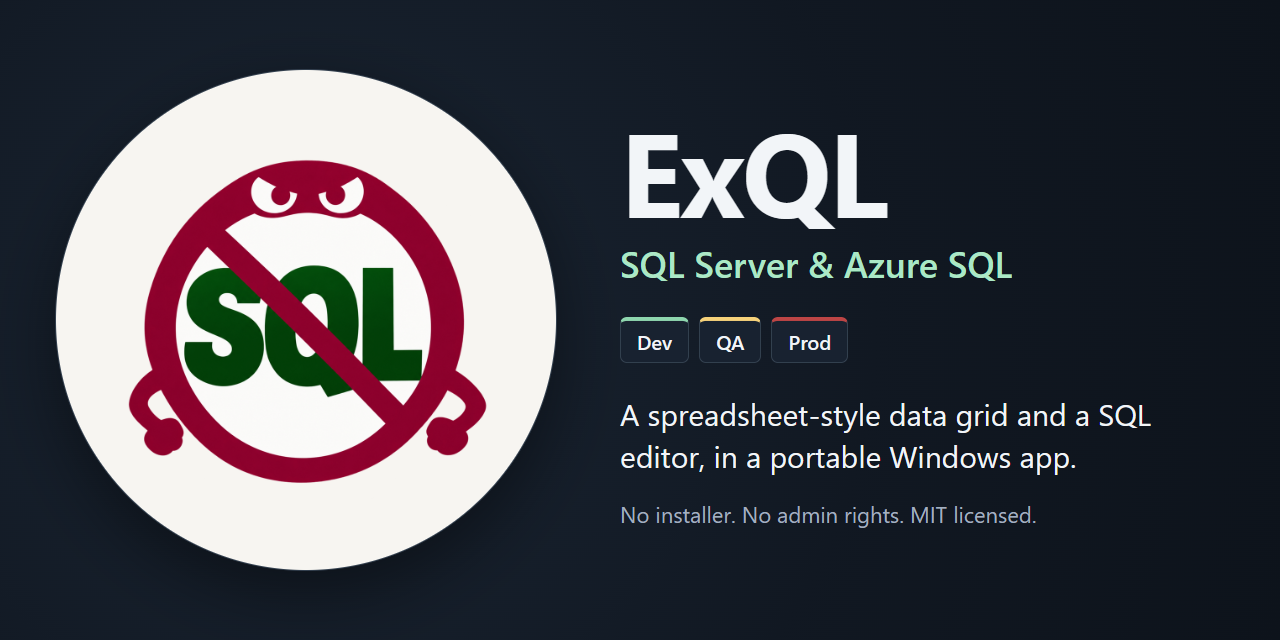
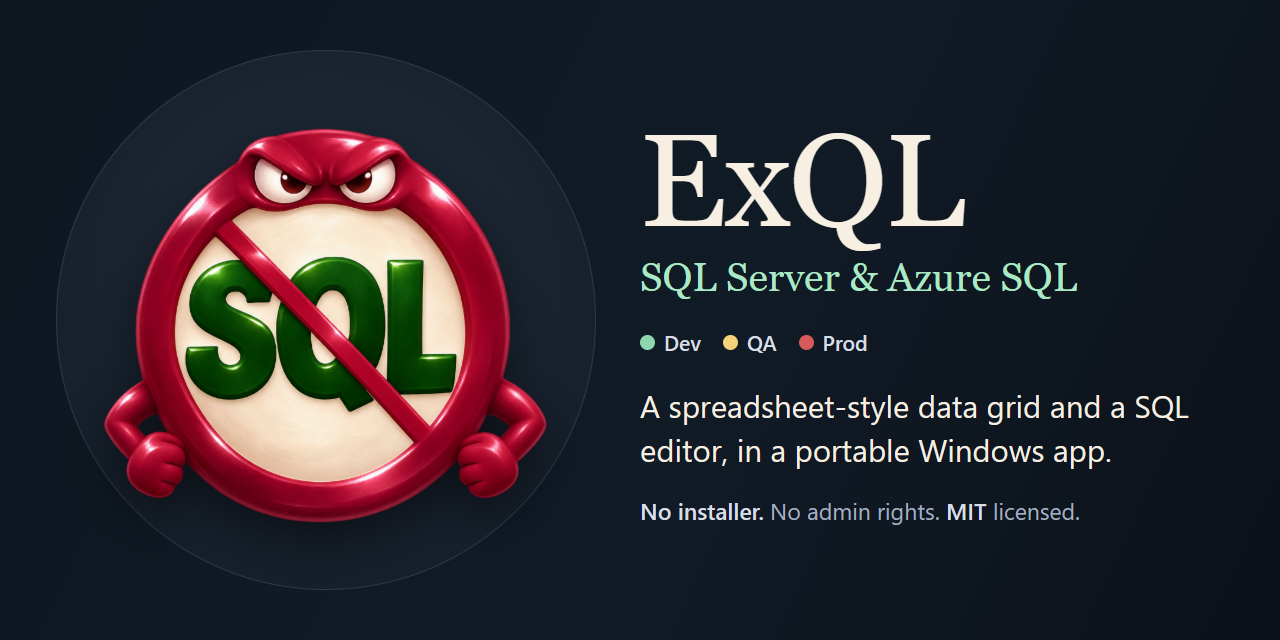
[Claude][Opus 5.5] Give the share card an illustrated mascot
The first card put the flat logo on a white disc. Use a painted version of the
mascot on a dark stage with a serif title, matching Ratatoskr's card.

diff --git a/tests/screenshots/social-card.html b/tests/screenshots/social-card.html
@@ -12,84 +12,94 @@
     overflow: hidden;
     display: flex;
     align-items: center;
-    gap: 64px;
-    padding: 0 72px 0 56px;
-    color: #f2f5f8;
+    gap: 44px;
+    padding: 0 64px 0 56px;
+    color: #f6efe2;
     font-family: Inter, "Segoe UI", sans-serif;
-    background: radial-gradient(
-      circle at 25% 50%,
-      #1a2533 0%,
-      #111822 55%,
-      #0d131b 100%
-    );
+    background: linear-gradient(115deg, #0e1620 0%, #111b26 55%, #0b1118 100%);
   }
-  .badge {
+  .stage {
     flex: none;
-    display: grid;
-    place-items: center;
-    width: 500px;
-    height: 500px;
+    position: relative;
+    width: 540px;
+    height: 540px;
     border-radius: 50%;
-    background: #f7f5f1;
-    box-shadow:
-      0 0 0 1px #33404f,
-      0 24px 70px rgb(0 0 0 / 45%);
+    background: radial-gradient(
+      circle at 50% 42%,
+      #24303f 0%,
+      #18222e 60%,
+      #131b25 100%
+    );
+    box-shadow: inset 0 0 0 1px #2c3947;
   }
-  .badge img {
-    width: 430px;
-    height: 430px;
+  .stage img {
+    position: absolute;
+    inset: 22px;
+    width: 496px;
+    height: 496px;
+    filter: drop-shadow(0 18px 26px rgb(0 0 0 / 55%));
   }
   h1 {
-    font-size: 118px;
-    font-weight: 700;
-    letter-spacing: -3px;
+    font-family: Georgia, "Times New Roman", serif;
+    font-size: 132px;
+    font-weight: 400;
+    letter-spacing: -2px;
     line-height: 1;
   }
   h2 {
-    margin-top: 10px;
+    margin-top: 8px;
     color: #abe8c6;
-    font-size: 36px;
-    font-weight: 500;
+    font-family: Georgia, "Times New Roman", serif;
+    font-size: 40px;
+    font-weight: 400;
   }
   .tabs {
     display: flex;
-    gap: 10px;
-    margin: 30px 0;
-  }
-  .tabs span {
-    padding: 7px 16px;
-    border: 1px solid #33404f;
-    border-top: 4px solid var(--color);
-    border-radius: 7px;
-    background: #182230;
-    font-size: 20px;
+    gap: 22px;
+    margin: 28px 0;
+    color: #d8dee6;
+    font-size: 21px;
     font-weight: 600;
   }
+  .tabs span {
+    display: flex;
+    align-items: center;
+    gap: 9px;
+  }
+  .tabs i {
+    width: 15px;
+    height: 15px;
+    border-radius: 50%;
+    background: var(--color);
+  }
   p {
-    font-size: 30px;
+    font-size: 31px;
     line-height: 1.4;
   }
   small {
     display: block;
-    margin-top: 22px;
+    margin-top: 24px;
     color: #a3b0c0;
-    font-size: 22px;
-    line-height: 1.4;
+    font-size: 23px;
+  }
+  small b {
+    color: #d8dee6;
+    font-weight: 600;
   }
 </style>
-<div class="badge">
-  <img src="../../public/exql.png" alt="" />
+<div class="stage">
+  <img src="social-mascot.png" alt="" />
 </div>
 <main>
   <h1>ExQL</h1>
   <h2>SQL Server &amp; Azure SQL</h2>
   <div class="tabs">
-    <span style="--color: #8ed6ae">Dev</span>
-    <span style="--color: #f6d27a">QA</span>
-    <span style="--color: #bd4545">Prod</span>
+    <span><i style="--color: #8ed6ae"></i>Dev</span>
+    <span><i style="--color: #f6d27a"></i>QA</span>
+    <span><i style="--color: #d65a5a"></i>Prod</span>
   </div>
   <p>
     A spreadsheet-style data grid and a SQL editor, in a portable Windows app.
   </p>
-  <small>No installer. No admin rights. MIT licensed.</small>
+  <small><b>No installer.</b> No admin rights. <b>MIT</b> licensed.</small>
 </main>

diff --git a/docs/development.md b/docs/development.md
@@ -109,7 +109,7 @@ Live Azure SQL and interactive Entra sign-in need an Azure account and database,
 
 ## Screenshots and social preview
 
-`npm run screenshots` regenerates `docs/screenshots/` and `docs/social-preview.png` from the real UI, using `tests/screenshots/`. It needs a local SQL Server, and creates and drops a database named `Bookshop`, filled with fictional data. If a database with that name already exists, the run fails without touching it.
+`npm run screenshots` regenerates `docs/screenshots/` and `docs/social-preview.png` from the real UI, using `tests/screenshots/`. It needs a local SQL Server, and creates and drops a database named `Bookshop`, filled with fictional data. If a database with that name already exists, the run fails without touching it. The card's mascot, `tests/screenshots/social-mascot.png`, was created with built-in imagegen from `public/exql.png`.
 
 Upload `docs/social-preview.png` under the repository's **Settings > General > Social preview** after changing it, because GitHub has no API for this.
 
